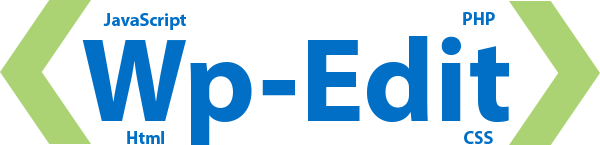
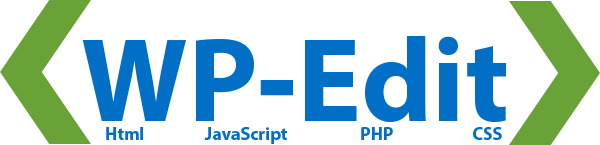
Ändrad design

diff --git a/css/style.css b/css/style.css
@@ -38,6 +38,11 @@ body {
     height: 115px;
     width: 600px;
 }
+.headerholder{
+    margin-left: 35%;
+    margin-right: 35%;
+    margin-top: 10px;
+}
 
 /*Menu code starts here*/
 #menu{

diff --git a/index.php b/index.php
@@ -18,9 +18,9 @@ include 'init.php';
             include './website.php';
         } else {
             ?>
-            <h1 class="title">Some Title</h1>
+        
             <div id="main-container">
-
+            <div class="headerholder"><img id="loginlogga" src="css/Logga.png"></div> 
                 <?php
                 include './Forms/login-form.php';
                 ?>

diff --git a/website.php b/website.php
@@ -3,7 +3,7 @@
 <script src="js/jquery-ui-1.10.4.custom.js"></script>
 
 <div id="mainContainer">
-    <div id="header"><p><a href="index.php"><img id="logga" src="css/Logga.png"></a></p></div>
+    <div id="header"><a href="index.php"><img id="logga" src="css/Logga.png"></a></div>
 
 
         <div id="menu"><?php
